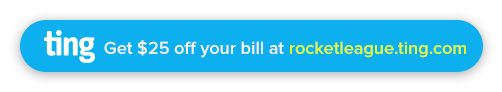
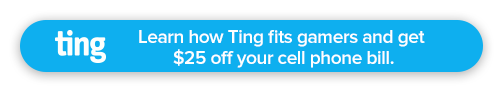
add last minute things

Changed region(s): [[0.0896, 0.3261, 0.9263, 0.7391], [0.4482, 0.7174, 0.4781, 0.7391]]

diff --git a/app/assets/stylesheets/components/site_header.scss b/app/assets/stylesheets/components/site_header.scss
@@ -29,6 +29,16 @@ site-header {
     }
   }
 
+  .social-links {
+    position: absolute;
+    top: 120px;
+    right: 320px;
+
+    @media(max-width: 800px) {
+      display: none;
+    }
+  }
+
   .sponsor {
     float: right;
     margin-top: 10px;
@@ -66,5 +76,38 @@ site-header {
     border-radius: 16px;
     border: 1px solid white;
     width: 300px !important;
+  }
+
+  .fa {
+    padding: 12px;
+    font-size: 28px;
+    line-height: 26px;
+    text-align: center;
+    text-decoration: none;
+    border-radius: 4px;
+    margin: 10px;
+    width: 50px;
+    height: 50px;
+  }
+
+  /* Add a hover effect if you want */
+  .fa:hover {
+    opacity: 0.7;
+  }
+
+  .fa-youtube {
+    background: #DD272D;
+    color: white;
+  }
+
+  .fa-twitch {
+    background: #6441A4;
+    color: white;
+  }
+
+  /* Twitter */
+  .fa-twitter {
+    background: #55ACEE;
+    color: white;
   }
 }

diff --git a/app/assets/javascripts/components/home/home.html b/app/assets/javascripts/components/home/home.html
@@ -36,7 +36,10 @@
             Ting does rates, not plans. How you use your phone determines what you pay. Use less? Pay less. Every month is different.
           </p>
           <p>
-            It's great for gamers because the more often you're around a Wi-Fi connection, the cheaper your phone bill will be.
+            Ting has two nationwide LTE network offerings, GSM (T-Mobile) and CDMA (Sprint), so you can choose the network that works best in your area.
+          </p>
+          <p>
+            The more often you're around Wi-Fi, the cheaper your phone bill will be.
           </p>
           <div class="ting-button-wrapper">
             <a ng-href="{{ $ctrl.sponsorLink }}" target="_new">

diff --git a/app/assets/javascripts/components/countdown/countdown.html b/app/assets/javascripts/components/countdown/countdown.html
@@ -1,4 +1,18 @@
+<div class="video-container">
+  <iframe class="video"
+          src="https://www.youtube.com/embed/Aq7-07Wi22A"
+          frameborder="0" gesture="media" allow="encrypted-media"
+          allowfullscreen>
+  </iframe>
+</div>
 <div class="countdown-text-container">
-  {{ $ctrl.countdownText }}
-  <p class="start-date">{{ $ctrl.startTimeString }}<p>
+  <div>
+    {{ $ctrl.countdownText }}
+    <p class="start-date">{{ $ctrl.startTimeString }}<p>
+    <a class="btn btn-orange"
+       target="_new"
+       href="https://beta.faceit.com/en/rl_XBOX_PC/tournament/86110d46-86b6-4e25-91d7-28508b3f4cd8">
+      Team Sign Up
+    </a>
+  </div>
 </div>

diff --git a/app/assets/stylesheets/layout.scss b/app/assets/stylesheets/layout.scss
@@ -26,16 +26,13 @@ body {
 countdown {
   display: block;
   max-width: 100%;
-  height: 600px;
   margin: auto;
-  margin-top: 30px;
-  margin-bottom: 30px;
   color: $countdown-text;
   background-color: $countdown-background;
   text-align: center;
 
   .countdown-text-container {
-    padding-top: 260px;
+    padding: 30px;
     font-size: 36px;
 
     .start-date {
@@ -60,4 +57,19 @@ countdown {
 
 .content-row {
   width: 100%;
+}
+
+.video-container {
+  position: relative;
+  width: 100%;
+  height: 0;
+  padding-bottom: 56.25%;
+
+  .video {
+      position: absolute;
+      top: 0;
+      left: 0;
+      width: 100%;
+      height: 100%;
+  }
 }

diff --git a/app/assets/stylesheets/colors.scss b/app/assets/stylesheets/colors.scss
@@ -10,3 +10,18 @@ $red: #e41b1b;
 $error-bg: #ffd0d0;
 $warning-yellow: #fff0cc;
 $white: #ffffff;
+$orange: #f50;
+
+.btn-orange,
+.btn-orange.dropdown-toggle,
+.open > .btn-orange.dropdown-toggle {
+  color: $white;
+  background-color: $orange;
+  border-color: darken($orange, 5%);
+
+  &:hover, &:focus, &:active, &.active {
+    color: $white;
+    background-color: darken($orange, 10%);
+    border-color: darken($orange, 15%);
+  }
+}
